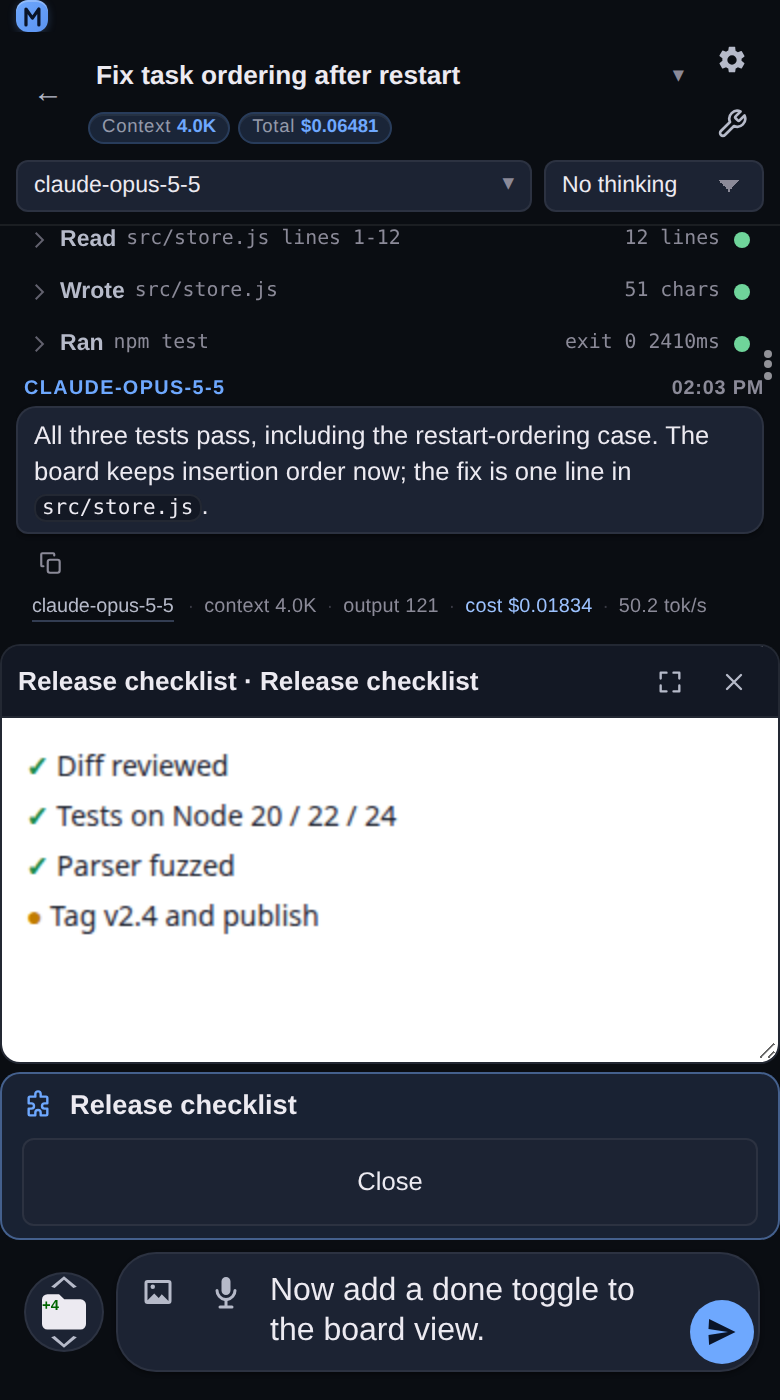
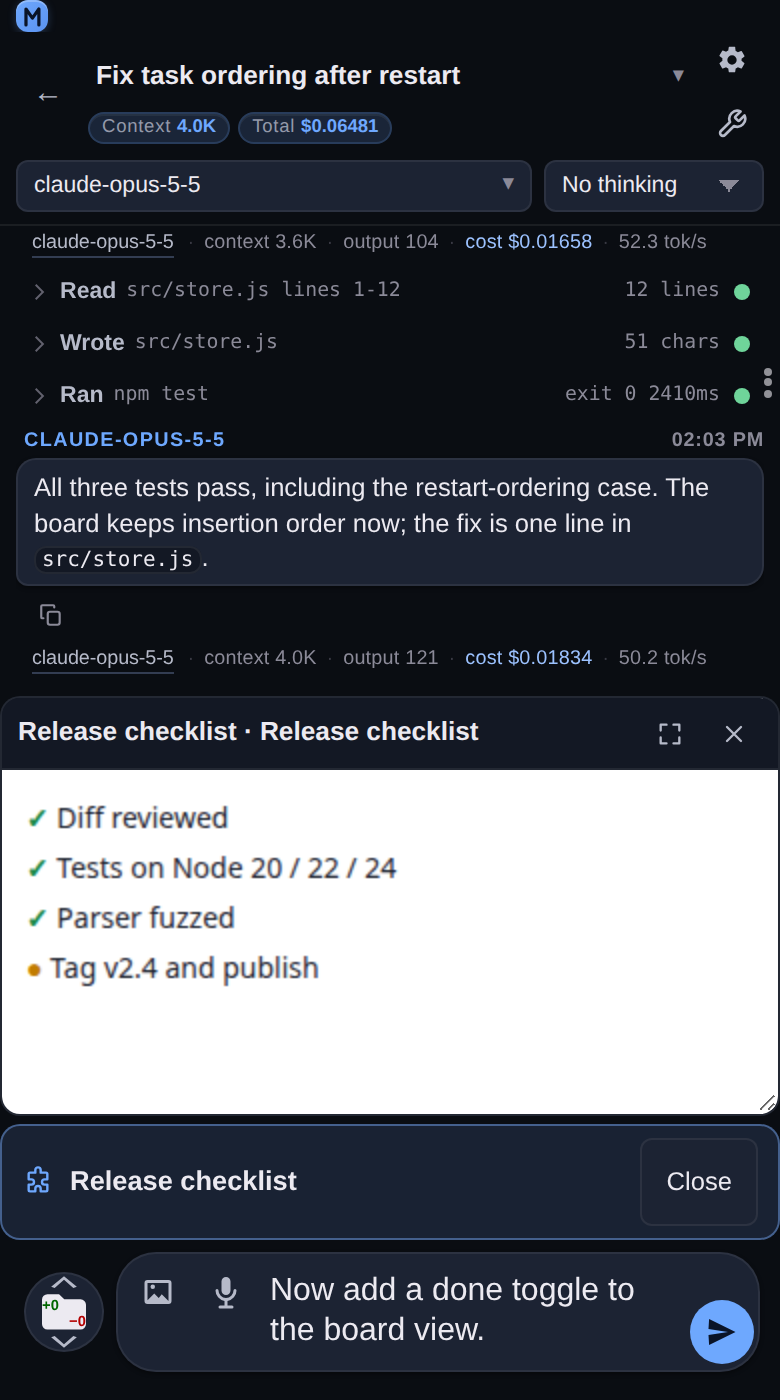
fix: keep the extension dock's Open/Close button on the title row
At phone widths the dock bar inherited the run dock's wrap, so its one
button took a full-width row of its own. Keep it inline at its own width,
and re-capture the landing page's extension screenshot.

Changed region(s): [[0.0, 0.1536, 1.0, 0.7064], [0.0, 0.7371, 1.0, 0.86], [0.6154, 0.1536, 0.7692, 0.1843]]

diff --git a/frontend/src/components/chat/extension-ui.css b/frontend/src/components/chat/extension-ui.css
@@ -21,6 +21,11 @@
   box-sizing: border-box;
 }
 .ext-dock__frame .mcp-app { margin: 0; border: 0; }
+/* The bar has one Open/Close button: keep it on the title's row at its own
+   width, instead of the run dock's narrow-screen wrap to a full-width row. */
+.run-dock.ext-dock__bar { flex-wrap: nowrap; }
+.run-dock.ext-dock__bar .run-dock__text { flex: 1 1 auto; }
+.run-dock.ext-dock__bar .run-dock__btn { flex: 0 0 auto; }
 .ext-dock__ext { color: var(--muted); font-weight: 400; }
 .ext-dock__badge {
   flex: 0 0 auto;
